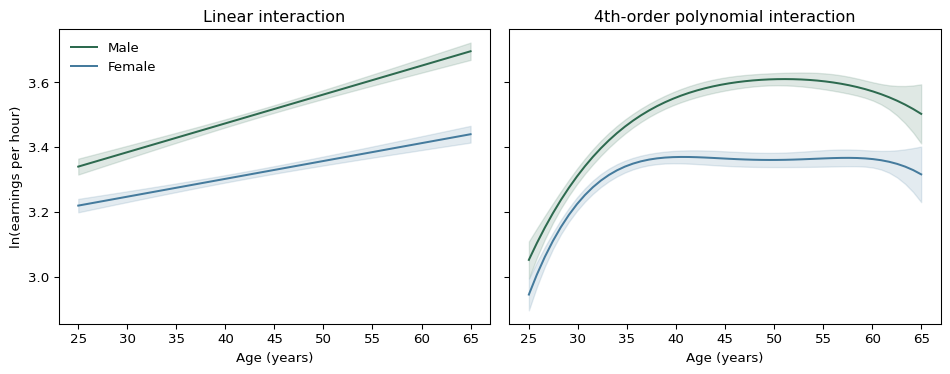
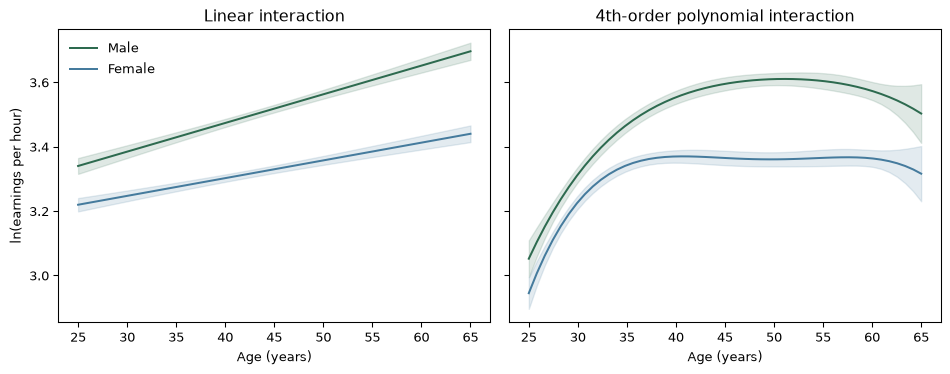
Publish Week 6 online session slides and link from homepage

diff --git a/docs/week6-online-slides.html b/docs/week6-online-slides.html
@@ -9,7 +9,7 @@
 <link href="site_libs/quarto-html/quarto-syntax-highlighting-37eea08aefeeee20ff55810ff984fec1.css" rel="stylesheet" id="quarto-text-highlighting-styles"><meta charset="utf-8">
   <meta name="generator" content="quarto-1.7.32">
 
-  <title>7002LBSAI – Multiple Regression, Worked Through</title>
+  <title>7002LBSAI – Multiple Regression Case Studies</title>
   <meta name="apple-mobile-web-app-capable" content="yes">
   <meta name="apple-mobile-web-app-status-bar-style" content="black-translucent">
   <meta name="viewport" content="width=device-width, initial-scale=1.0, maximum-scale=1.0, user-scalable=no, minimal-ui">
@@ -194,7 +194,7 @@
     <div class="slides">
 
 <section id="title-slide" class="quarto-title-block center">
-  <h1 class="title">Multiple Regression, Worked Through</h1>
+  <h1 class="title">Multiple Regression Case Studies</h1>
   <p class="subtitle">7002LBSAI Research Methods in Analytics — Week 6 Online Session</p>
 
 <div class="quarto-title-authors">
@@ -210,7 +210,7 @@
 .reveal .big-code div.sourceCode pre.sourceCode, .reveal .small-code div.sourceCode pre.sourceCode, .reveal .mid-code div.sourceCode pre.sourceCode { font-size: 1em !important; }
 </style>
 <div style="text-align: center; padding-top: 180px;">
-<p><span style="font-size: 2.2em; color: white;"><strong>Multiple regression, worked through</strong></span></p>
+<p><span style="font-size: 2.2em; color: white;"><strong>Multiple regression case studies</strong></span></p>
 </div>
 </section>
 <section class="slide level2">

diff --git a/docs/index.html b/docs/index.html
@@ -224,7 +224,7 @@ ul.task-list li input[type="checkbox"] {
 <span class="status-chip live"><span class="dot"></span>Live</span>
 </div>
 <div class="pill-row">
-<a class="pill" href="week6-slides.html" target="_blank" rel="noopener">Workshop slides</a><a class="pill" href="week6-slides-no-answers.html" target="_blank" rel="noopener">Workshop slides (no answers)</a>
+<a class="pill" href="week6-slides.html" target="_blank" rel="noopener">Workshop slides</a><a class="pill" href="week6-slides-no-answers.html" target="_blank" rel="noopener">Workshop slides (no answers)</a><a class="pill" href="week6-online-slides.html" target="_blank" rel="noopener">Online session</a>
 </div>
 </div>
 <div class="week-card is-note">
